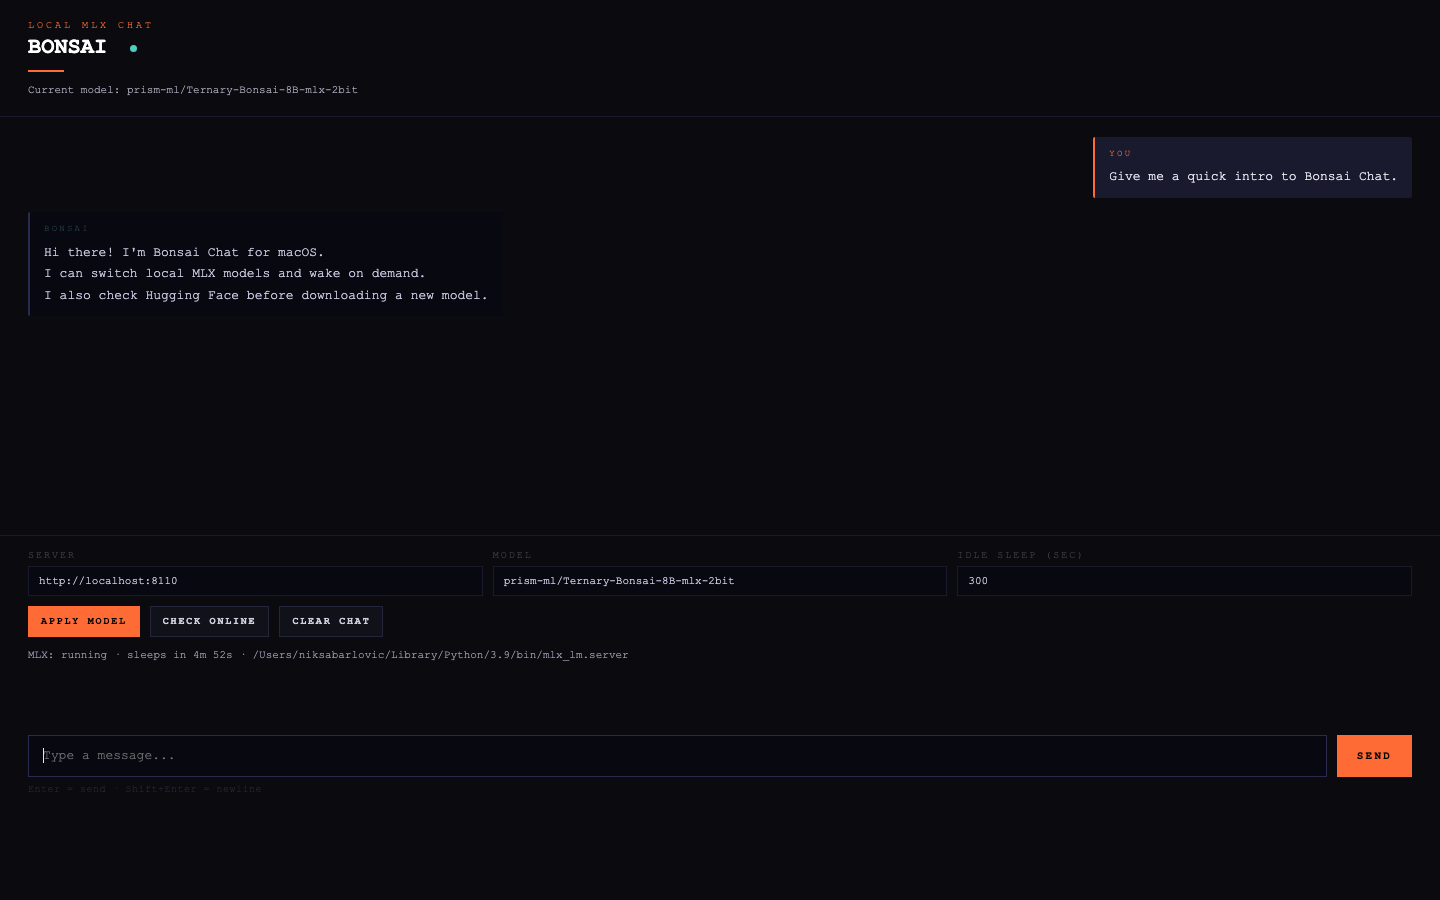
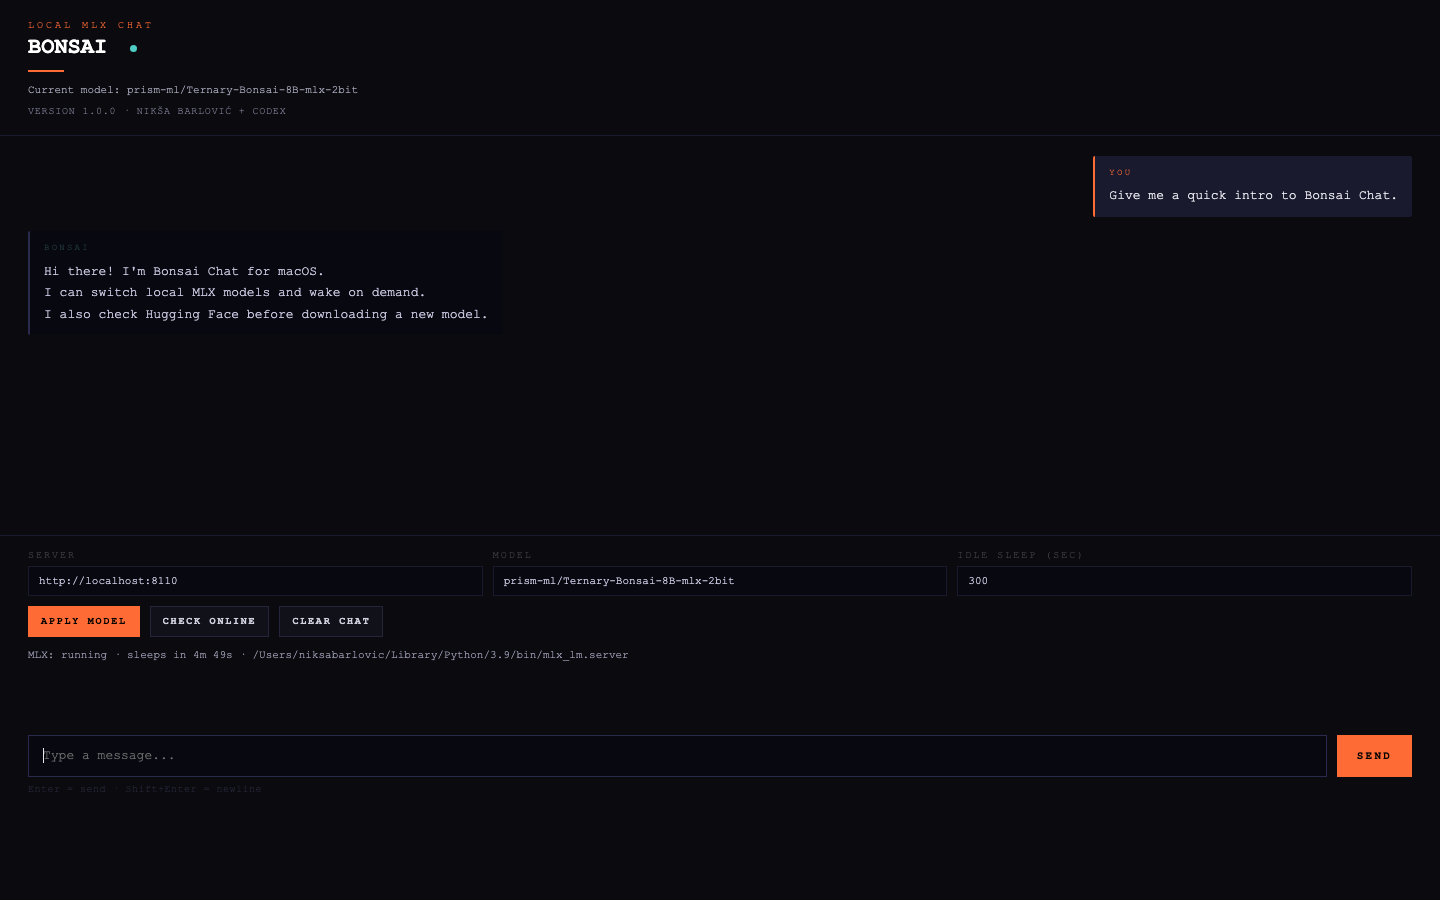
Add signature and version

Changed region(s): [[0.75, 0.1244, 1.0, 0.2489], [0.0312, 0.2489, 0.3438, 0.3733], [0.125, 0.1244, 0.1562, 0.1556]]

diff --git a/bonsai-chat.html b/bonsai-chat.html
@@ -3,7 +3,7 @@
 <head>
 <meta charset="UTF-8">
 <meta name="viewport" content="width=device-width, initial-scale=1.0">
-<title>Bonsai Local Chat</title>
+<title>Bonsai Local Chat v1.0.0</title>
 <style>
 *{box-sizing:border-box;margin:0;padding:0}
 body{background:#0a0a0f;color:#e8e8f0;font-family:'Courier New',monospace;height:100vh;display:flex;flex-direction:column}
@@ -12,6 +12,7 @@ header{padding:20px 28px 16px;border-bottom:1px solid #1a1a2e;flex-shrink:0}
 h1{font-size:22px;font-weight:bold;color:#fff}
 .bar{width:36px;height:2px;background:#ff6b35;margin-top:10px}
 .subhead{margin-top:10px;font-size:11px;color:#a9a9bc;line-height:1.6}
+.credit{margin-top:4px;font-size:10px;color:#7c7c92;line-height:1.5;letter-spacing:.08em;text-transform:uppercase}
 .status-dot{display:inline-block;width:7px;height:7px;border-radius:50%;background:#555;margin-left:10px;vertical-align:middle;transition:background .3s}
 .status-dot.on{background:#4ecdc4}
 .status-dot.warm{background:#ffb347}
@@ -79,6 +80,7 @@ footer{padding:14px 28px 18px;border-top:1px solid #1a1a2e;flex-shrink:0}
   <h1>BONSAI <span class="status-dot sleep" id="dot" title="server status"></span></h1>
   <div class="bar"></div>
   <div class="subhead" id="subhead">Current model: loading...</div>
+  <div class="credit" id="creditLine">Version 1.0.0 · Nikša Barlović + Codex</div>
 </header>
 
 <div id="messages"></div>
@@ -180,6 +182,7 @@ function syncConfig(config) {
   document.getElementById('modelInput').value = config.model || '';
   document.getElementById('idleInput').value = config.idle_timeout_seconds ?? 300;
   document.getElementById('subhead').textContent = `Current model: ${config.active_model || config.model || 'n/a'}`;
+  document.getElementById('creditLine').textContent = `Version ${config.app_version || '1.0.0'} · ${config.app_signature || 'Nikša Barlović + Codex'}`;
   setDot(config.mlx_status);
 
   let runtime = `MLX: ${config.mlx_status}`;
@@ -352,6 +355,7 @@ function applyDemoState() {
   setModelStatus('');
   if (!appConfig) {
     document.getElementById('subhead').textContent = `Current model: ${model}`;
+    document.getElementById('creditLine').textContent = 'Version 1.0.0 · Nikša Barlović + Codex';
     document.getElementById('runtimeInfo').textContent = 'MLX: running · demo mode preview';
     setDot('running');
   }

diff --git a/bonsai.py b/bonsai.py
@@ -20,6 +20,8 @@ from pathlib import Path
 
 
 APP_NAME = "BonsaiChat"
+APP_VERSION = "1.0.0"
+APP_SIGNATURE = "Nikša Barlović + Codex"
 DEFAULT_MODEL = "prism-ml/Ternary-Bonsai-8B-mlx-2bit"
 DEFAULT_UI_HOST = "127.0.0.1"
 DEFAULT_UI_PORT = 8080
@@ -277,6 +279,8 @@ class AppState:
                 )
             return {
                 "app_name": APP_NAME,
+                "app_version": APP_VERSION,
+                "app_signature": APP_SIGNATURE,
                 "model": self.config["model"],
                 "active_model": self._active_model or self.config["model"],
                 "trust_remote_code": bool(self.config.get("trust_remote_code", False)),
@@ -738,6 +742,8 @@ def main():
 
     print(f"\n{APP_NAME}")
     print("=" * 36)
+    print(f"  Version -> {APP_VERSION}")
+    print(f"  Signed by -> {APP_SIGNATURE}")
     print(f"  UI -> http://localhost:{state.ui_port}")
     print(f"  Model -> {state.config['model']}")
     print(f"  Idle sleep -> {state.config['idle_timeout_seconds']}s")

diff --git a/README.md b/README.md
@@ -1,5 +1,9 @@
 # Bonsai Chat for macOS
 
+Version: `1.0.0`
+
+Signed by: `Nikša Barlović + Codex`
+
 Local chat UI for `mlx_lm.server` with:
 
 - model switching from the browser UI
